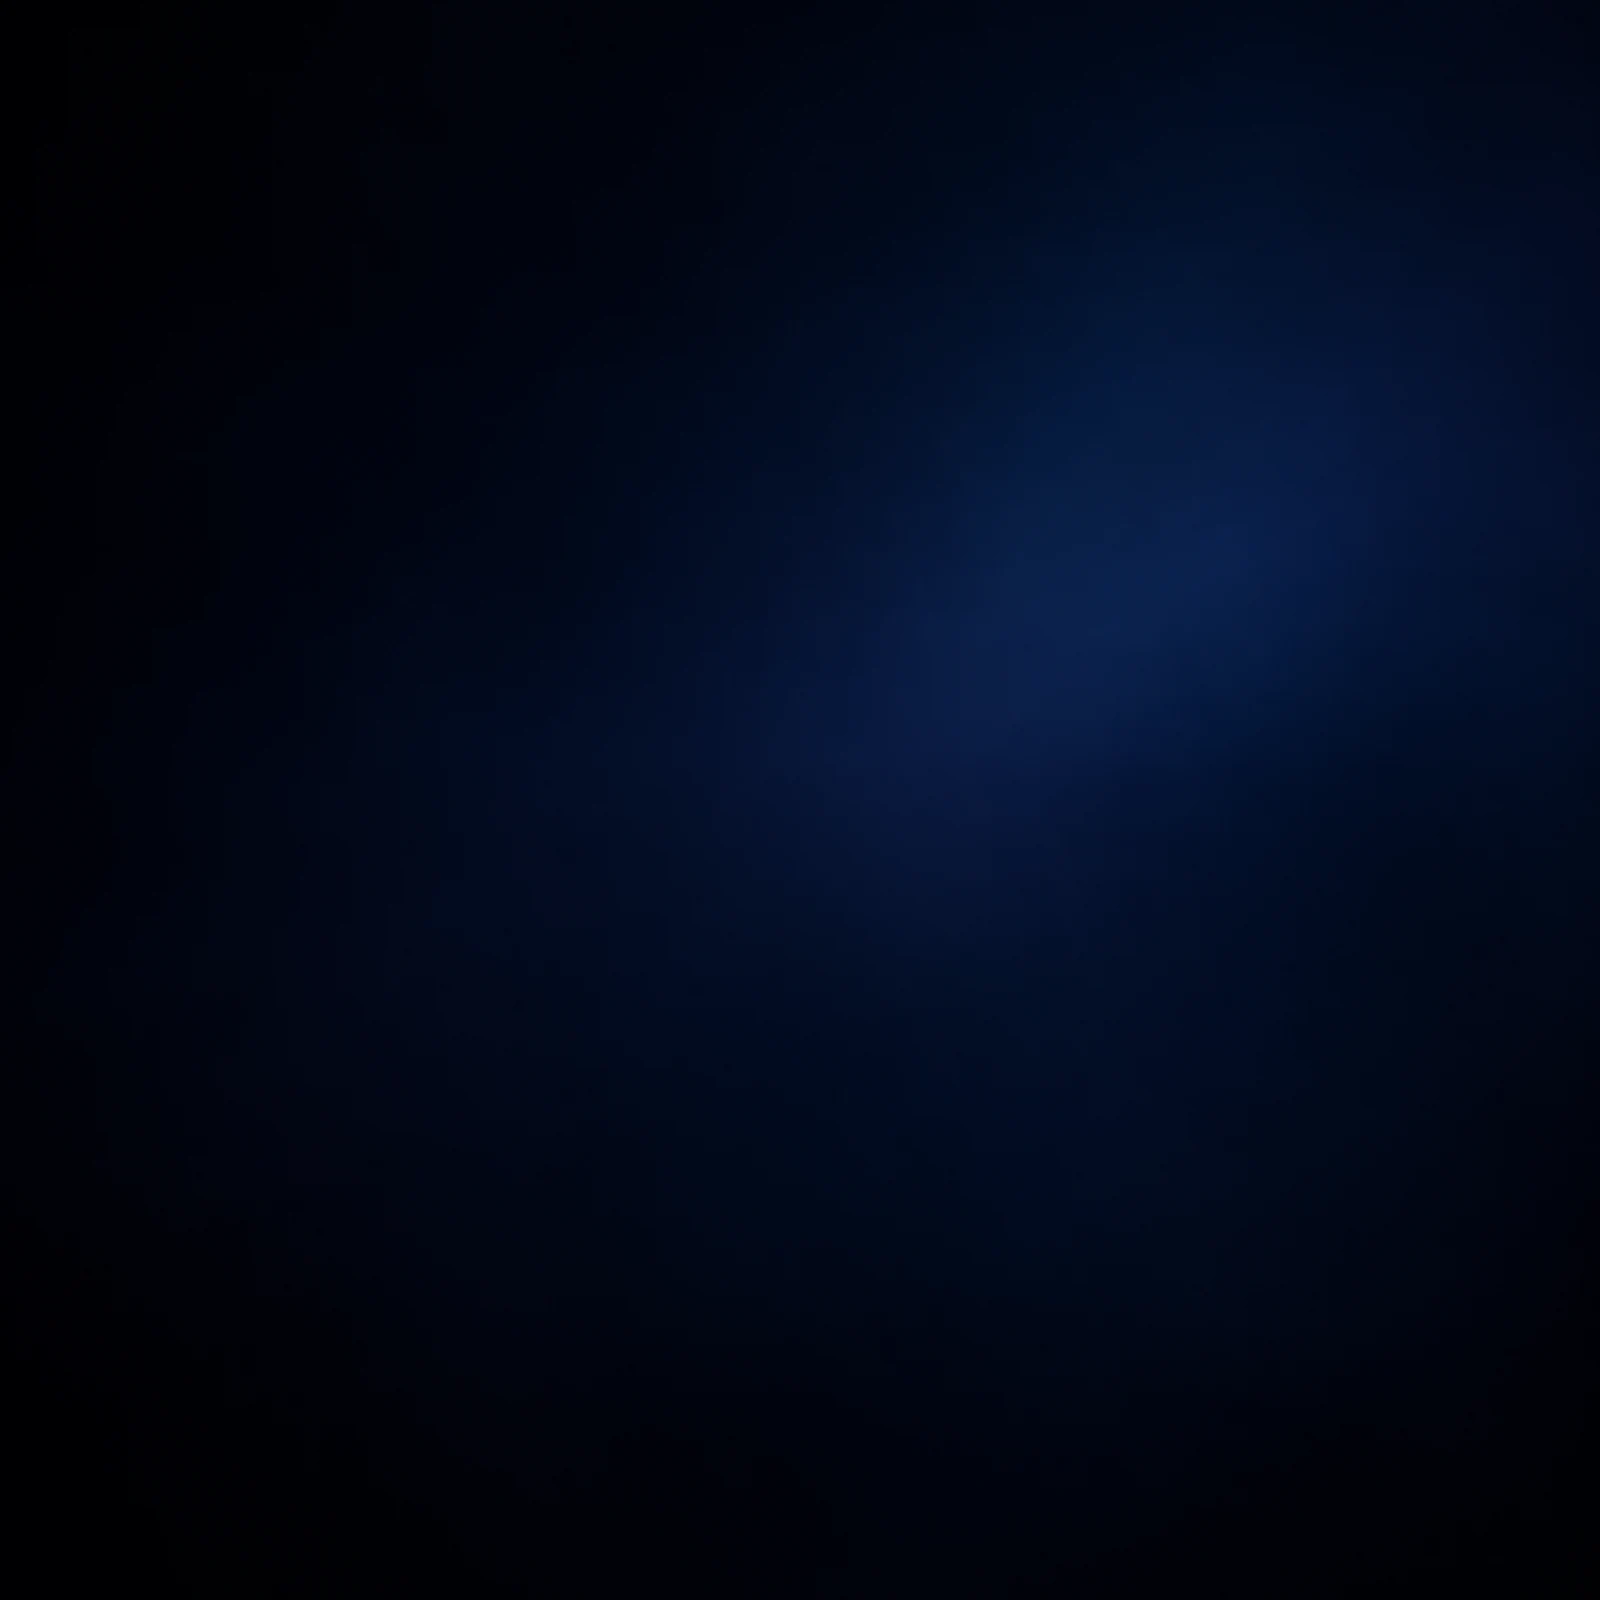
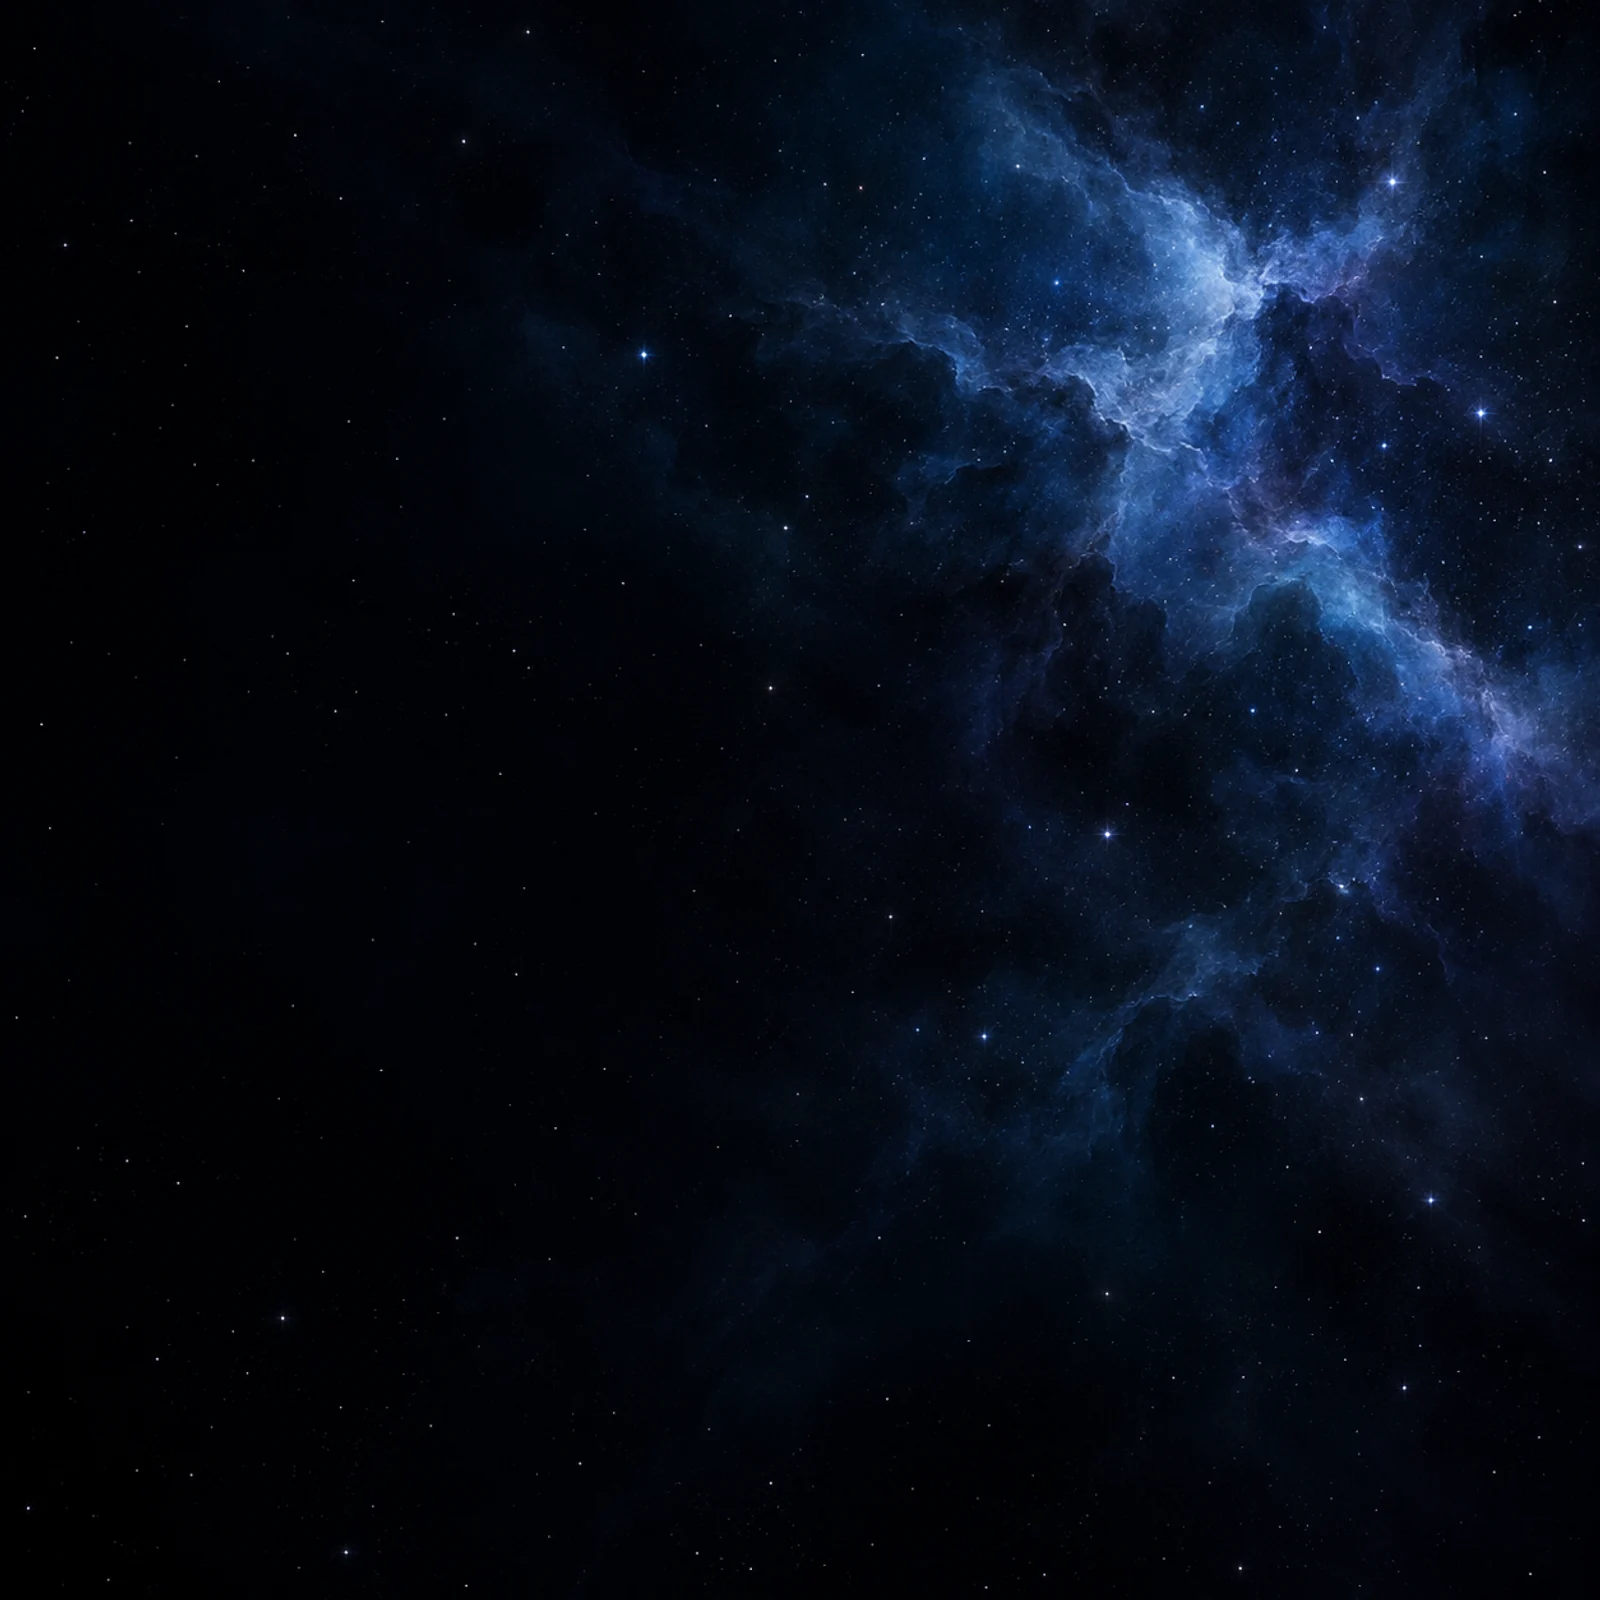
Enhance hero starfield atmosphere

diff --git a/src/app/globals.css b/src/app/globals.css
@@ -312,9 +312,9 @@ h3 {
   isolation: isolate;
   --moon-glow-opacity: 0.078;
   --moonlight-opacity: 0.244;
-  --star-field-far-opacity: 0.3;
-  --star-field-mid-opacity: 0.4;
-  --stardust-opacity: 0.16;
+  --star-field-far-opacity: 0.38;
+  --star-field-mid-opacity: 0.48;
+  --stardust-opacity: 0.18;
 }
 
 .hero::before {
@@ -713,7 +713,7 @@ h3 {
   background-position: center;
   background-repeat: no-repeat;
   background-size: cover;
-  opacity: 0.58;
+  opacity: 0.22;
   overflow: hidden;
   pointer-events: none;
   animation: nebula-baked-drift 120s ease-in-out infinite alternate;
@@ -763,6 +763,21 @@ h3 {
       0.55px 0.55px at 73% 42%,
       rgba(255, 255, 255, 0.34) 45%,
       transparent 100%
+    ),
+    radial-gradient(
+      0.65px 0.65px at 35% 11%,
+      rgba(236, 242, 255, 0.48) 45%,
+      transparent 100%
+    ),
+    radial-gradient(
+      0.7px 0.7px at 52% 83%,
+      rgba(255, 255, 255, 0.44) 45%,
+      transparent 100%
+    ),
+    radial-gradient(
+      0.55px 0.55px at 92% 19%,
+      rgba(233, 239, 255, 0.42) 45%,
+      transparent 100%
     );
   background-repeat: no-repeat;
   background-size: 100% 100%;
@@ -787,10 +802,59 @@ h3 {
       0.8px 0.8px at 32% 14%,
       rgba(255, 255, 255, 0.48) 45%,
       transparent 100%
+    ),
+    radial-gradient(
+      0.95px 0.95px at 82% 76%,
+      rgba(238, 243, 255, 0.62) 45%,
+      transparent 100%
+    ),
+    radial-gradient(
+      0.75px 0.75px at 49% 58%,
+      rgba(255, 255, 255, 0.48) 45%,
+      transparent 100%
     );
   background-repeat: no-repeat;
   background-size: 100% 100%;
   transform: translateZ(0);
+}
+
+.star-field-cluster {
+  inset: 11% 8% 32% 52%;
+  z-index: 2;
+  opacity: 0.3;
+  background-image:
+    radial-gradient(
+      0.75px 0.75px at 17% 25%,
+      rgba(244, 247, 255, 0.72) 45%,
+      transparent 100%
+    ),
+    radial-gradient(
+      1px 1px at 33% 42%,
+      rgba(224, 234, 255, 0.78) 45%,
+      transparent 100%
+    ),
+    radial-gradient(
+      0.7px 0.7px at 49% 18%,
+      rgba(255, 255, 255, 0.62) 45%,
+      transparent 100%
+    ),
+    radial-gradient(
+      0.85px 0.85px at 64% 56%,
+      rgba(236, 242, 255, 0.7) 45%,
+      transparent 100%
+    ),
+    radial-gradient(
+      0.75px 0.75px at 79% 33%,
+      rgba(255, 255, 255, 0.68) 45%,
+      transparent 100%
+    ),
+    radial-gradient(
+      0.7px 0.7px at 91% 69%,
+      rgba(226, 235, 255, 0.58) 45%,
+      transparent 100%
+    );
+  background-repeat: no-repeat;
+  background-size: 100% 100%;
 }
 
 .stardust-layer {
@@ -864,6 +928,16 @@ h3 {
   top: 18%;
   left: 24%;
   animation: star-breathe 13s 2s ease-in-out infinite;
+}
+
+.star-twinkle-two {
+  top: 28%;
+  left: 82%;
+  width: 0.1rem;
+  height: 0.1rem;
+  opacity: 0.54;
+  box-shadow: 0 0 0.55rem rgba(216, 229, 255, 0.48);
+  animation: star-breathe 19s -7s ease-in-out infinite;
 }
 
 .star-steady-one {
@@ -2044,10 +2118,10 @@ h3 {
 @keyframes star-breathe {
   0%,
   100% {
-    opacity: 0.44;
+    opacity: 0.52;
   }
   50% {
-    opacity: 0.95;
+    opacity: 0.82;
   }
 }
 
@@ -2197,7 +2271,7 @@ h3 {
   }
 
   .deep-space-nebula-baked {
-    opacity: 0.76;
+    opacity: 0.36;
   }
 
   .celestial-stage {

diff --git a/e2e/home.spec.ts b/e2e/home.spec.ts
@@ -1132,6 +1132,7 @@ test("hero celestial scene is decorative and uses CSS motion", async ({
     /^\d\.\d{3}$/,
   );
   await expect(page.locator(".stardust-layer")).toHaveCount(3);
+  await expect(page.locator(".star-field-cluster")).toHaveCount(1);
   const movingDust = page.locator(".stardust-mid");
   await expect(movingDust).toHaveCSS(
     "animation-name",
@@ -1173,7 +1174,12 @@ test("hero celestial scene is decorative and uses CSS motion", async ({
       return getComputedStyle(star).animationName;
     }),
   ).toBe(mobilePerformanceMode ? "none" : "star-breathe");
-  await expect(page.locator(".star-twinkle")).toHaveCount(1);
+  await expect(page.locator(".star-twinkle")).toHaveCount(2);
+  expect(
+    await page.locator(".star-twinkle-two").evaluate((star) => {
+      return getComputedStyle(star).animationName;
+    }),
+  ).toBe(mobilePerformanceMode ? "none" : "star-breathe");
   await expect(page.locator(".star-steady")).toHaveCount(1);
   const orbitBodies = [
     [".satellite-one animateMotion", "72s", "-5.76s"],
@@ -1215,6 +1221,10 @@ test("hero celestial scene is decorative and uses CSS motion", async ({
   await expect(nebula).toHaveCSS(
     "animation-name",
     mobilePerformanceMode ? "none" : "nebula-baked-drift",
+  );
+  await expect(nebula).toHaveCSS(
+    "opacity",
+    mobilePerformanceMode ? "0.36" : "0.22",
   );
   await expect(nebula).toHaveCSS("filter", "none");
   const nebulaResponse = await page.request.get("/space/hero-nebula.webp");
@@ -1325,6 +1335,10 @@ test("mobile low-cost rendering keeps the nebula and essential motion", async ({
   await expect(page.locator(".deep-space-nebula-baked")).toHaveCSS(
     "filter",
     "none",
+  );
+  await expect(page.locator(".deep-space-nebula-baked")).toHaveCSS(
+    "opacity",
+    "0.36",
   );
   await expect(page.locator(".nebula-atmosphere")).toHaveCSS("filter", "none");
   await expect(page.locator(".hero-space-background")).not.toHaveCSS(
@@ -1868,6 +1882,7 @@ test("respects reduced motion", async ({ page }) => {
     ".nebula-cloud-three",
     ".deep-space-nebula-baked",
     ".star-twinkle-one",
+    ".star-twinkle-two",
     ".stardust-far",
     ".stardust-mid",
     ".stardust-near",

diff --git a/src/components/lunar-phase-scene.tsx b/src/components/lunar-phase-scene.tsx
@@ -103,9 +103,11 @@ export function LunarPhaseBackground() {
       <div className="star-field star-field-far" />
       <div className="stardust-layer stardust-far" />
       <div className="star-field star-field-mid" />
+      <div className="star-field star-field-cluster" />
       <div className="stardust-layer stardust-mid" />
       <div className="star-accents">
         <span className="star-twinkle star-twinkle-one" />
+        <span className="star-twinkle star-twinkle-two" />
         <span className="star-steady star-steady-one" />
       </div>
       <div className="stardust-layer stardust-near" />

diff --git a/docs/design-system.md b/docs/design-system.md
@@ -51,11 +51,12 @@ Use system sans-serif for copy and monospace for compact status and index labels
 The page uses a floating desktop glass header and an accessible expandable
 mobile menu. The Hero combines a large official mark with a fictional gas
 giant: a banded cloud texture masked by fixed-tilt SVG terminator geometry,
-deterministic, non-tiled far/mid star layers, one softly twinkling white star,
-three sparse deterministic radial-gradient stardust depth layers, and a quiet
-black-blue deep-space image baked into WebP. The 1600 × 1600 image is 14,020
-bytes and has no baked stars, keeping the faint indigo haze and controlled CSS
-stars quiet. It drifts very slowly; a single white star twinkles. Three layered
+deterministic, non-tiled far/mid star layers, one localized star cluster, two
+softly twinkling white stars, three sparse deterministic radial-gradient
+stardust depth layers, and a black-blue deep-space WebP with a translucent blue
+nebula and unevenly distributed stars. The 1600 × 1600 image is about 107 KB;
+controlled CSS stars add modest density without uniform sparkle. It drifts very
+slowly; only two white stars twinkle subtly. Three layered
 blue-indigo radial-gradient gas clouds drift gently on desktop using transforms
 and opacity, without blur filters. Mobile keeps the background and planet but
 stops ambient motion; lunar phase updates and three satellites remain. Journey

diff --git a/docs/testing.md b/docs/testing.md
@@ -46,7 +46,8 @@ the 120-second waxing-crescent SVG phase morph, fixed tilt and 100ms update
 limit, offscreen / hidden-document pause and phase resume, CSS orbit periods,
 satellite positions on their ellipse paths, the baked WebP nebula, absence of
 runtime SVG filters and blend modes, restrained desktop motion, mobile low-cost
-glass / nebula / Journey rendering, 200ms phase updates with orbit motion
+glass / nebula / Journey rendering, a localized star cluster and two subtle
+desktop star twinkles, 200ms phase updates with orbit motion
 retained, desktop nebula drift and mobile ambient-motion pause,
 keyboard-operable mobile menu navigation and
 close-on-selection, destination focus, keyboard skip navigation, runtime errors,
